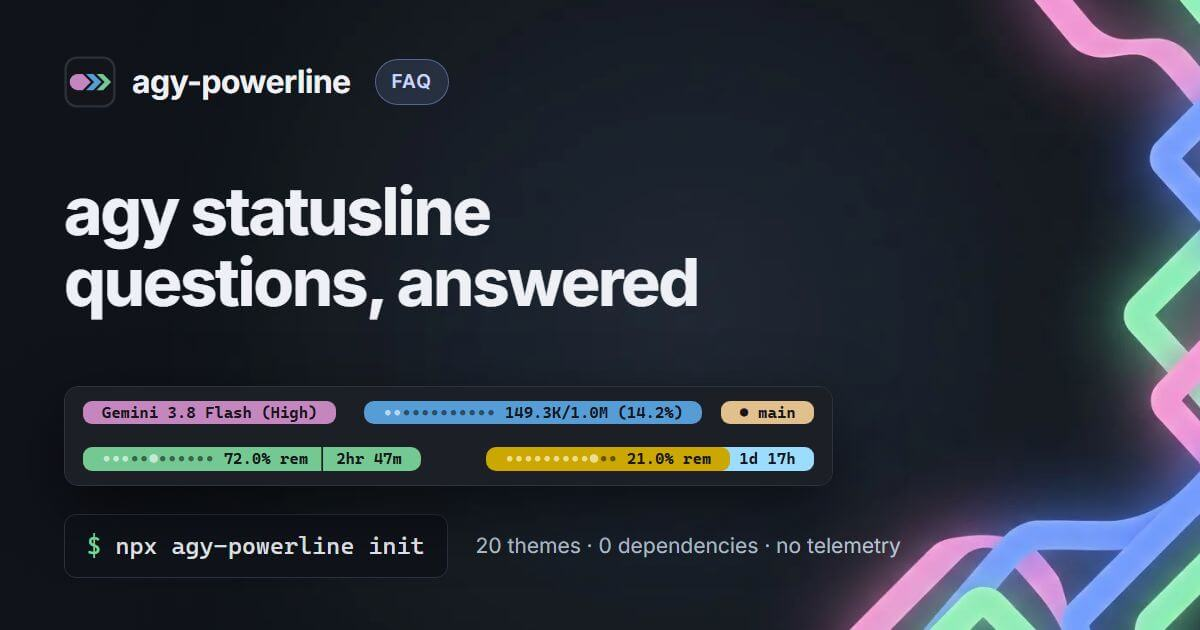
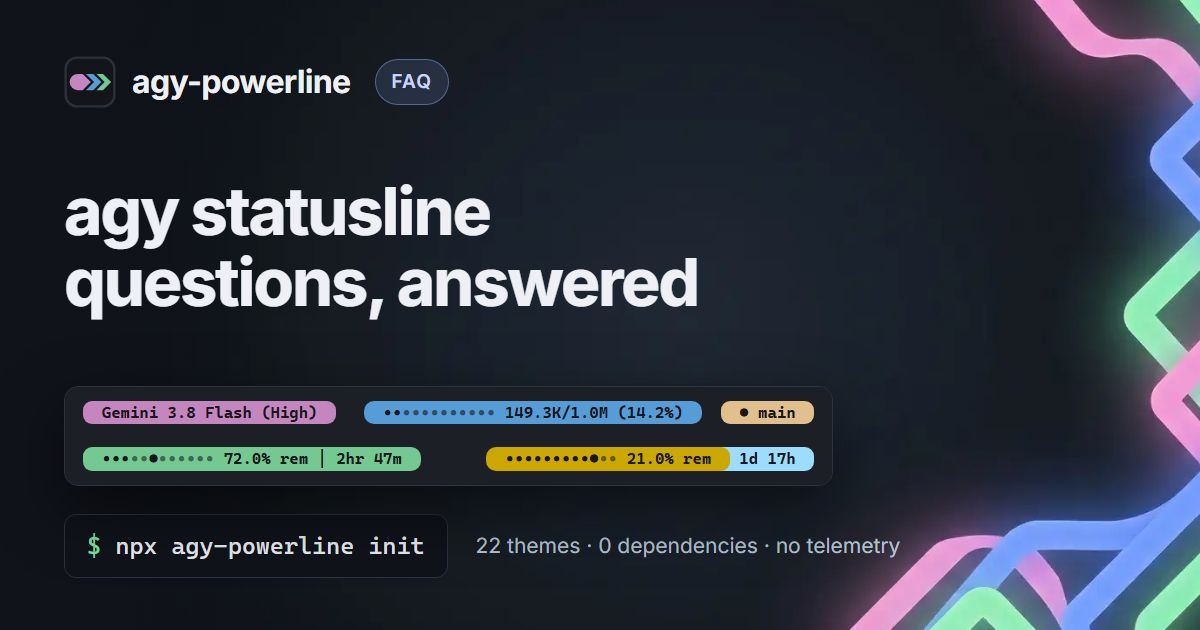
feat(themes): add Catppuccin Frappe and Mocha themes (#171)

diff --git a/src/lib/themes.js b/src/lib/themes.js
@@ -12,7 +12,7 @@ const { parseColor, parseGradientStops, luminance } = require("./colors");
 //                 protanopia, deuteranopia and tritanopia
 // Most dark-* and light-* colors come from VS Code's default themes (Dark+
 // and Light+ syntax, git decorations, warning/error and terminal colors);
-// nocturne, onyx, metro, macchiato, nord, rose-pine, cream, gruvbox and tokyo-night take their
+// nocturne, onyx, metro, macchiato, frappé, mocha, nord, rose-pine, cream, gruvbox and tokyo-night take their
 // palettes from community themes (credited below). A few colors are adjusted where the
 // checks below need it: darkened or lightened for contrast, and gitDirty
 // moved toward orange so a dirty branch never looks like the caution state.
@@ -193,6 +193,48 @@ const THEMES = {
     caution: "#eed49f",
     warn: "#ed8796",
   }),
+
+  // Palette from Catppuccin Frappé (catppuccin.com, MIT).
+  "dark-catppuccin-frappe": theme(
+    "dark",
+    "Dark Catppuccin Frappe",
+    "Pastel mauve, teal, peach and green",
+    {
+      text: DARK_TEXT,
+      track: "#51576d",
+      model: "#ca9ee6",
+      fiveHour: "#a6d189",
+      weekly: "#85c1dc",
+      thirdParty: "#ef9f76",
+      context: "#8caaee",
+      git: "#81c8be",
+      gitDirty: "#eebebe",
+      meta: "#b5bfe2",
+      caution: "#e5c890",
+      warn: "#e78284",
+    }
+  ),
+
+  // Palette from Catppuccin Mocha (catppuccin.com, MIT).
+  "dark-catppuccin-mocha": theme(
+    "dark",
+    "Dark Catppuccin Mocha",
+    "Pastel mauve, teal, peach and green",
+    {
+      text: DARK_TEXT,
+      track: "#45475a",
+      model: "#cba6f7",
+      fiveHour: "#a6e3a1",
+      weekly: "#74c7ec",
+      thirdParty: "#fab387",
+      context: "#89b4fa",
+      git: "#94e2d5",
+      gitDirty: "#f2cdcd",
+      meta: "#bac2de",
+      caution: "#f9e2af",
+      warn: "#f38ba8",
+    }
+  ),
 
   // Palette from Nord (nordtheme.com, MIT).
   "dark-nord": theme("dark", "Dark Nord", "Arctic frost blues with aurora accents", {
@@ -395,6 +437,8 @@ const THEME_ORDER = [
   "dark-onyx",
   "dark-metro",
   "dark-macchiato",
+  "dark-catppuccin-frappe",
+  "dark-catppuccin-mocha",
   "dark-nord",
   "dark-rose-pine",
   "light-paper",

diff --git a/README.es.md b/README.es.md
@@ -92,12 +92,12 @@ Comienza desde un preajuste y luego ajústalo:
 
 ### Temas
 
-| Fondo de la terminal | Temas                                                                                                                                                                                            |
-| -------------------- | ------------------------------------------------------------------------------------------------------------------------------------------------------------------------------------------------ |
-| Oscuro               | `dark-aurora` (predeterminado), `dark-ocean`, `dark-ember`, `dark-forest`, `dark-neon`, `dark-mono`, `dark-nocturne`, `dark-onyx`, `dark-metro`, `dark-macchiato`, `dark-nord`, `dark-rose-pine` |
-| Claro                | `light-paper`, `light-sky`, `light-sunset`, `light-cream`, `light-gruvbox`, `light-tokyo-night`                                                                                                  |
-| Apto para daltonismo | `colorblind-dark`, `colorblind-light`                                                                                                                                                            |
-| Tus propios colores  | `custom` ([cómo hacerlo](docs/configuration.md#custom-theme))                                                                                                                                    |
+| Fondo de la terminal | Temas                                                                                                                                                                                                                                               |
+| -------------------- | --------------------------------------------------------------------------------------------------------------------------------------------------------------------------------------------------------------------------------------------------- |
+| Oscuro               | `dark-aurora` (predeterminado), `dark-ocean`, `dark-ember`, `dark-forest`, `dark-neon`, `dark-mono`, `dark-nocturne`, `dark-onyx`, `dark-metro`, `dark-macchiato`, `dark-catppuccin-frappe`, `dark-catppuccin-mocha`, `dark-nord`, `dark-rose-pine` |
+| Claro                | `light-paper`, `light-sky`, `light-sunset`, `light-cream`, `light-gruvbox`, `light-tokyo-night`                                                                                                                                                     |
+| Apto para daltonismo | `colorblind-dark`, `colorblind-light`                                                                                                                                                                                                               |
+| Tus propios colores  | `custom` ([cómo hacerlo](docs/configuration.md#custom-theme))                                                                                                                                                                                       |
 
 Previsualízalos todos en la [galería de temas](https://agy-powerline.com/themes/) o con `npx agy-powerline theme --gallery`. Para un degradado de color continuo en cada fila, añade un gradiente: `npx agy-powerline gradient <name>` con `aurora`, `sunset`, `ocean`, `forest`, `neon`, `candy`, `rainbow`, `mono` o tus propios colores ([cómo hacerlo](docs/configuration.md#gradients)).
 

diff --git a/README.md b/README.md
@@ -90,12 +90,12 @@ Start from a preset, then adjust:
 
 ### Themes
 
-| Terminal background | Themes                                                                                                                                                                                    |
-| ------------------- | ----------------------------------------------------------------------------------------------------------------------------------------------------------------------------------------- |
-| Dark                | `dark-aurora` (default), `dark-ocean`, `dark-ember`, `dark-forest`, `dark-neon`, `dark-mono`, `dark-nocturne`, `dark-onyx`, `dark-metro`, `dark-macchiato`, `dark-nord`, `dark-rose-pine` |
-| Light               | `light-paper`, `light-sky`, `light-sunset`, `light-cream`, `light-gruvbox`, `light-tokyo-night`                                                                                           |
-| Color-blind safe    | `colorblind-dark`, `colorblind-light`                                                                                                                                                     |
-| Your own colors     | `custom` ([how](docs/configuration.md#custom-theme))                                                                                                                                      |
+| Terminal background | Themes                                                                                                                                                                                                                                       |
+| ------------------- | -------------------------------------------------------------------------------------------------------------------------------------------------------------------------------------------------------------------------------------------- |
+| Dark                | `dark-aurora` (default), `dark-ocean`, `dark-ember`, `dark-forest`, `dark-neon`, `dark-mono`, `dark-nocturne`, `dark-onyx`, `dark-metro`, `dark-macchiato`, `dark-catppuccin-frappe`, `dark-catppuccin-mocha`, `dark-nord`, `dark-rose-pine` |
+| Light               | `light-paper`, `light-sky`, `light-sunset`, `light-cream`, `light-gruvbox`, `light-tokyo-night`                                                                                                                                              |
+| Color-blind safe    | `colorblind-dark`, `colorblind-light`                                                                                                                                                                                                        |
+| Your own colors     | `custom` ([how](docs/configuration.md#custom-theme))                                                                                                                                                                                         |
 
 Preview them all in the [theme gallery](https://agy-powerline.com/themes/) or with `npx agy-powerline theme --gallery`. For one color sweep across each row, add a gradient: `npx agy-powerline gradient <name>` with `aurora`, `sunset`, `ocean`, `forest`, `neon`, `candy`, `rainbow`, `mono` or your own colors ([how](docs/configuration.md#gradients)).
 

diff --git a/README.fr.md b/README.fr.md
@@ -79,12 +79,12 @@ Choisissez un préréglage comme point de départ, puis personnalisez-le :
 
 ### Thèmes
 
-| Fond du terminal        | Thèmes                                                                                                                                                                                       |
-| ----------------------- | -------------------------------------------------------------------------------------------------------------------------------------------------------------------------------------------- |
-| Sombre                  | `dark-aurora` (par défaut), `dark-ocean`, `dark-ember`, `dark-forest`, `dark-neon`, `dark-mono`, `dark-nocturne`, `dark-onyx`, `dark-metro`, `dark-macchiato`, `dark-nord`, `dark-rose-pine` |
-| Clair                   | `light-paper`, `light-sky`, `light-sunset`, `light-cream`, `light-gruvbox`, `light-tokyo-night`                                                                                              |
-| Adapté au daltonisme    | `colorblind-dark`, `colorblind-light`                                                                                                                                                        |
-| Couleurs personnalisées | `custom` ([mode d’emploi](docs/configuration.md#custom-theme))                                                                                                                               |
+| Fond du terminal        | Thèmes                                                                                                                                                                                                                                          |
+| ----------------------- | ----------------------------------------------------------------------------------------------------------------------------------------------------------------------------------------------------------------------------------------------- |
+| Sombre                  | `dark-aurora` (par défaut), `dark-ocean`, `dark-ember`, `dark-forest`, `dark-neon`, `dark-mono`, `dark-nocturne`, `dark-onyx`, `dark-metro`, `dark-macchiato`, `dark-catppuccin-frappe`, `dark-catppuccin-mocha`, `dark-nord`, `dark-rose-pine` |
+| Clair                   | `light-paper`, `light-sky`, `light-sunset`, `light-cream`, `light-gruvbox`, `light-tokyo-night`                                                                                                                                                 |
+| Adapté au daltonisme    | `colorblind-dark`, `colorblind-light`                                                                                                                                                                                                           |
+| Couleurs personnalisées | `custom` ([mode d’emploi](docs/configuration.md#custom-theme))                                                                                                                                                                                  |
 
 Prévisualisez tous les thèmes avec `npx agy-powerline theme --gallery`.
 

diff --git a/README.zh-CN.md b/README.zh-CN.md
@@ -79,12 +79,12 @@ Install the agy-powerline statusline: run `npx agy-powerline init --yes`, then t
 
 ### 主题
 
-| 终端背景   | 主题                                                                                                                                                                                    |
-| ---------- | --------------------------------------------------------------------------------------------------------------------------------------------------------------------------------------- |
-| 深色       | `dark-aurora`（默认）、`dark-ocean`、`dark-ember`、`dark-forest`、`dark-neon`、`dark-mono`、`dark-nocturne`、`dark-onyx`、`dark-metro`、`dark-macchiato`、`dark-nord`、`dark-rose-pine` |
-| 浅色       | `light-paper`、`light-sky`、`light-sunset`、`light-cream`、`light-gruvbox`、`light-tokyo-night`                                                                                         |
-| 色盲友好   | `colorblind-dark`、`colorblind-light`                                                                                                                                                   |
-| 自定义颜色 | `custom`（[方法](docs/configuration.md#custom-theme)）                                                                                                                                  |
+| 终端背景   | 主题                                                                                                                                                                                                                                       |
+| ---------- | ------------------------------------------------------------------------------------------------------------------------------------------------------------------------------------------------------------------------------------------ |
+| 深色       | `dark-aurora`（默认）、`dark-ocean`、`dark-ember`、`dark-forest`、`dark-neon`、`dark-mono`、`dark-nocturne`、`dark-onyx`、`dark-metro`、`dark-macchiato`、`dark-catppuccin-frappe`、`dark-catppuccin-mocha`、`dark-nord`、`dark-rose-pine` |
+| 浅色       | `light-paper`、`light-sky`、`light-sunset`、`light-cream`、`light-gruvbox`、`light-tokyo-night`                                                                                                                                            |
+| 色盲友好   | `colorblind-dark`、`colorblind-light`                                                                                                                                                                                                      |
+| 自定义颜色 | `custom`（[方法](docs/configuration.md#custom-theme)）                                                                                                                                                                                     |
 
 用 `npx agy-powerline theme --gallery` 预览所有主题。
 

diff --git a/CHANGELOG.md b/CHANGELOG.md
@@ -5,6 +5,12 @@ All notable changes to this project will be documented in this file.
 The format is based on [Keep a Changelog](https://keepachangelog.com/en/1.0.0/),
 and this project adheres to [Semantic Versioning](https://semver.org/spec/v2.0.0.html).
 
+## [Unreleased]
+
+### Added
+
+- Catppuccin Frappé and Mocha themes: `dark-catppuccin-frappe` and `dark-catppuccin-mocha` (#171)
+
 ## [1.9.3] - 2026-10-29
 
 ### Changed
